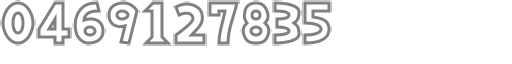
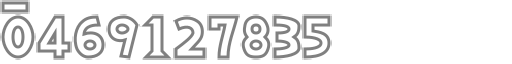
ScoreText can show minus and NaN

Changed region(s): [[0.0, 0.0, 0.6562, 0.9375]]

diff --git a/js/view/ScoreText.js b/js/view/ScoreText.js
@@ -25,7 +25,10 @@ ScoreText.charAspectRatio = 36.0 / 48.0; // width/height
 ScoreText.prototype.setScore = function (newScore) {
     var dec = ScoreText.numToString(newScore);
     for (var i = this.digits.length; i < dec.length; i++) {
-        var d = this.charPool.getFirstDead(true, 0, 0, 'number', dec.charAt(i));
+        var ch = dec.charAt(i);
+        if (ch === "∞") ch = "8";
+        if (ch === "-") ch = "minus";
+        var d = this.charPool.getFirstDead(true, 0, 0, 'number', ch);
         d.bringToTop();
         d.anchor.x = 0.5;
         d.anchor.y = 0.5;
@@ -66,6 +69,7 @@ ScoreText.prototype.showAtPosition = function (x, y, charHeight) {
             }
             else {
                 d.angle = 0;
+                if (digit === "-") digit = "minus";
             }
         }
         if (d.frameName !== digit) {
@@ -112,27 +116,15 @@ ScoreText.prototype.kill = function () {
 };
 
 ScoreText.numToString = function (num) {
-    var str = num.toString();
-    if (str.indexOf('e') !== -1) {
-        if (Math.abs(num) > 1) { // number is too big
-            var sign = "", digits = "";
-            if (num < 0) {
-                sign = "-";
-                num = -num;
-            }
-            while (num >= 1) {
-                var d = num%10;
-                digits = (num%10) + digits;
-                num = (num - d) / 10;
-            }
-            return sign + digits;
-        }
-        else { // number is too small
-            return "0";
-        }
-    }
-    if (num === Infinity) {
+    var str = Math.floor(num).toString();
+    if (num >= 1e15) {
         return "∞";
+    }
+    if (num <= -1e15) {
+        return "-∞";
+    }
+    if (num !== num) { // NaN
+        return "---";
     }
     return str;
 };
